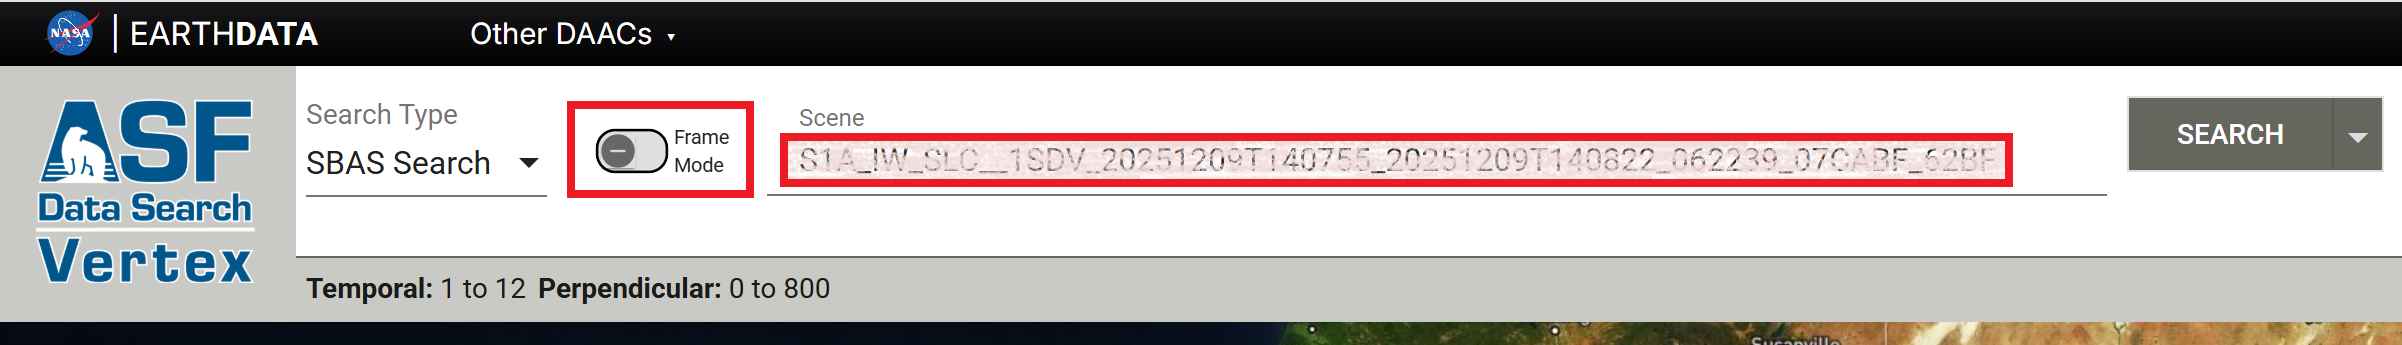
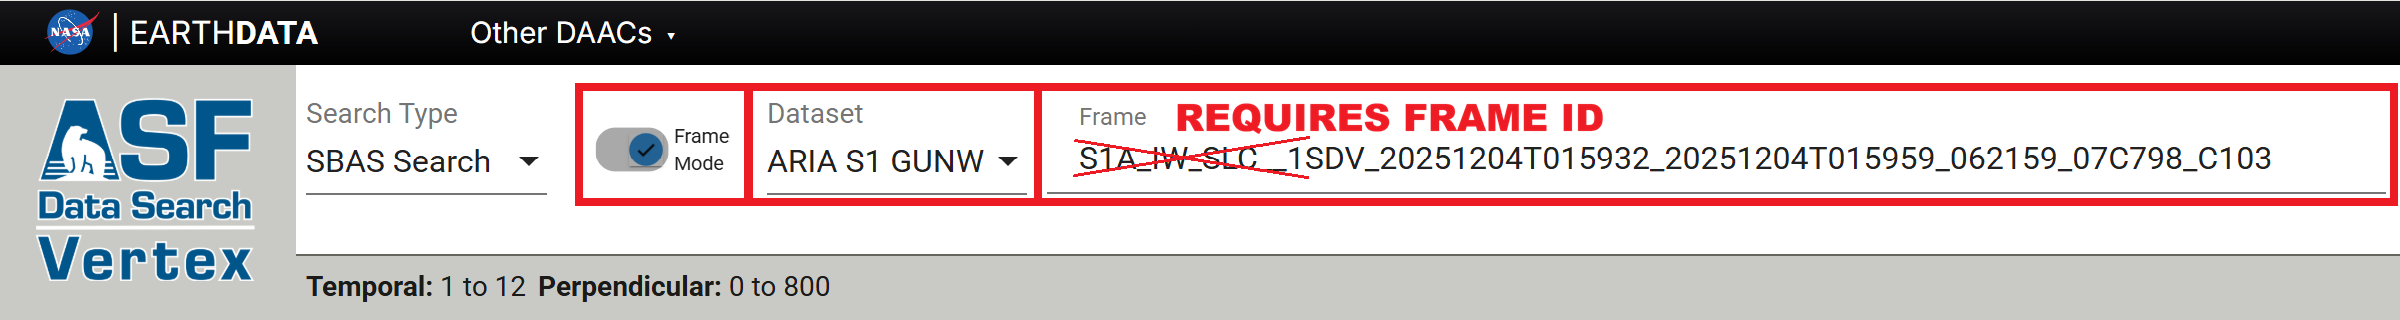
improve guidance on submitting ARIA GUNW jobs

diff --git a/docs/guides/gunw_product_guide.md b/docs/guides/gunw_product_guide.md
@@ -117,22 +117,31 @@ As described in the [ARIA Frame IDs section](#aria-frame-ids "Jump to the ARIA F
 products are processed based on frames that are consistent through time. There is a different set of ARIA Frame IDs 
 for each orbit direction (Ascending and Descending). 
 
-***By default, Vertex displays frames for the Ascending orbit direction.*** To view the frames for the Descending orbit 
-direction, click the **Filters** button and set the **Flight Direction** option to the desired direction.
+#### Flight Direction
+
+By default, Vertex displays frames for the ***Ascending*** orbit direction. To view the frames for the 
+***Descending*** orbit direction, click the **Filters** button and set the **Flight Direction** option to the 
+desired direction.
 
 ![Display Descending Frames](../images/aria-gunw-descending.png "Display Descending Frames")
+
+#### ARIA Frame ID GeoJSON
 
 The ARIA project provides a 
 [geojson file indicating the extent of each ARIA Frame ID](https://github.com/ASFHyP3/asf-enumeration/blob/develop/src/asf_enumeration/frame_maps/aria_frames.geojson "https://github.com/ASFHyP3/asf-enumeration/blob/develop/src/asf_enumeration/frame_maps/aria_frames.geojson" ){target=_blank}, 
 which can be downloaded and used for reference outside of Vertex. When the **On Demand** toggle is activated, a 
 download link for this geojson is displayed next to the toggle switch.
 
-While the ARIA processing code takes a list of reference and secondary Sentinel-1 IW SLC granules as input, 
-**On Demand users just pass the ARIA Frame ID and the dates of the desired primary and secondary passes over that frame 
-into the On Demand job specification** rather than assembling these lists manually. This ensures that there is full 
-coverage over the desired ARIA Frame.
+### Processing Parameters
 
-### Search for Sentinel-1 SLC Acquisition Dates for an ARIA Frame ID
+While the ARIA processing code takes a list of reference and secondary Sentinel-1 IW SLC granules as input, 
+On Demand users do not need to assemble these lists manually. 
+
+To ensure full coverage over the desired ARIA Frame and avoid failures caused by incomplete granule lists, 
+the ARIA-S1-GUNW On Demand job specification simply takes the **ARIA Frame ID** and the 
+**dates of the desired primary and secondary passes** over that frame. 
+
+### Search for ARIA-S1-GUNW Date Pairs
 
 Whether you are submitting jobs using Vertex or programmatically, Vertex provides a good interface for finding 
 suitable primary and secondary acquisition dates for a specific ARIA Frame ID. 
@@ -142,21 +151,41 @@ suitable primary and secondary acquisition dates for a specific ARIA Frame ID.
 for the **ARIA S1 GUNW** Dataset and activate the **On Demand** toggle switch to view the ARIA frames. 
 
     - Recall that there are different frame maps available for Ascending and Descending orbit directions. Verify that 
-      you have selected the desired orbit direction.
-    - To select a different direction, click on the Filters button and use the **Direction** filter in the 
+      you have [selected the desired orbit direction](#flight-direction "Jump to the Flight Direction Section").
+    - To select a different direction, click on the **Filters** button and use the **Direction** filter in the 
       **Additional Filters** section to select Ascending or Descending.
-
-2. Click on the desired frame and click **Build SBAS SLC Stack** to find available date pairings for that frame.
 
 ![Build ARIA GUNW SBAS SLC Stack](../images/aria-gunw-build-stack.png "Build ARIA GUNW SBAS SLC Stack")
 
-This opens the [SBAS Tool](https://docs.asf.alaska.edu/vertex/sbas/) in **Frame Mode**, allowing users to select 
-dates that have the required 90% coverage of the ARIA Frame to submit for processing. 
+2. Click on the desired frame and click **Build SBAS SLC Stack** to find available date pairings for that frame. 
+   This opens the [SBAS Tool](https://docs.asf.alaska.edu/vertex/sbas/) with the necessary parameters already set
+   to support ARIA-S1-GUNW jobs: 
 
-3. Click on the **On Demand** icon for the desired date pair to 
-[add it to the On Demand Queue](../using/vertex.md#1-select-your-scenes "Jump to the Using Vertex page of this documentation").
+    - The tool opens in **Frame Mode**
+    - The **Dataset** is set to ARIA-S1-GUNW
+    - The **Frame** field is populated with the selected ARIA Frame ID
+
+![Open SBAS Tool in Frame Mode](../images/aria-gunw-sbas-search.png "Open the SBAS Tool Optimized for ARIA-S1-GUNW Jobs")
+
+- Only date pairs that have the required 90% minimum coverage of the selected ARIA Frame are included in the results. 
+
+3. Adjust the SBAS parameters to refine the date pairs displayed in the list of results.
+
+    - Click the **SBAS Filters** button to set or adjust the date range for the listed pairs
+    - Use the vertical slider to restrict the results based on [perpendicular baseline](insar_product_guide.md#perpendicular-baseline "Jump to Perpendicular Baseline content") values (distance between the sensor location for the two acquisition dates)
+    - Use the horizontal slider to refine [temporal baseline](insar_product_guide.md#temporal-baseline "Jump to Temporal Baseline content") values (the number of days between the two acquisition dates) included in the results
+
+![SBAS Frame Mode](../images/aria-gunw-frame-sbas.png "Open the SBAS Tool in Frame Mode")
+
+4. Click on the **On Demand** icon for a desired date pair, click the **ARIA_S1_GUNW** job type, and click 
+   **Add 1 SLC Pair** to 
+   [add it to the On Demand Queue](../using/vertex.md#2-select-your-scenes "Jump to the Using Vertex page of this documentation").
 
 ![Submit an ARIA GUNW job](../images/aria-gunw-submit-job.png "Submit an ARIA S1 GUNW Job for On Demand Processing")
+
+   - To add all of the date pairs listed in the results to the On Demand Queue, click the **On Demand** button 
+     at the top of the results list. Click on the **ARIA_S1_GUNW** job type, then click the option to add all of the 
+     SLC pairs to the On Demand Queue.
 
 !!! warning "ARIA-S1-GUNW Jobs Require SBAS Frame Mode"
 
@@ -191,7 +220,7 @@ are not available for ARIA-S1-GUNW jobs.
 
     If a Sentinel-1 SLC Scene is referenced for a job listed in the **ARIA-S1-GUNW** tab of the On Demand Queue in 
     Vertex, processing will fail. These jobs must reference an 
-    [ARIA Frame ID](#search-for-sentinel-1-slc-acquisition-dates-for-an-aria-frame-id) 
+    [ARIA Frame ID](#search-for-aria-s1-gunw-date-pairs) 
     rather than a Sentinel-1 Scene.
 
     !["ARIA GUNW Frame Mode"](../images/aria-gunw-invalid.png){ width="85%"; style="float: center;" }
